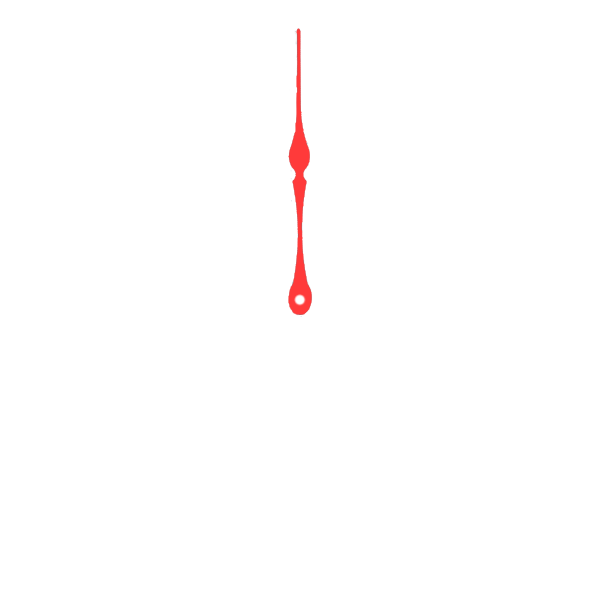
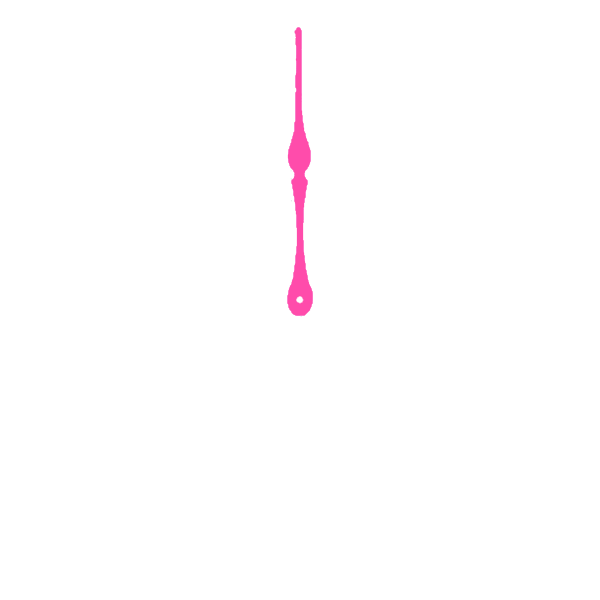
Analog Clock - added second set of hands

Changed region(s): [[0.48, 0.03, 0.54, 0.54]]

diff --git a/Clock/WpfAnalogClock/WpfAnalogClock/Constrols/AnalogClock.xaml b/Clock/WpfAnalogClock/WpfAnalogClock/Constrols/AnalogClock.xaml
@@ -10,10 +10,10 @@
              d:DesignHeight="300" d:DesignWidth="300">
     <Grid x:Name="clockGrid">
         <Grid.Background>
-            <ImageBrush ImageSource="/Images/StoneRoundClock1.png" Stretch="Uniform"/>
+            <ImageBrush ImageSource="pack://application:,,,/Images/StoneRoundClock2.png" Stretch="Uniform"/>
         </Grid.Background>
         <Image Grid.Row="0" Grid.Column="0" 
-               Source="/Images/HourHand1.png" 
+               Source="pack://application:,,,/Images/HourHand2.png" 
                Width="{Binding Path=ActualWidth, ElementName=clockGrid, Converter={main:PercentageConverter}, ConverterParameter='0.8'}"
                Height="{Binding Path=ActualHeight, ElementName=clockGrid, Converter={main:PercentageConverter}, ConverterParameter='0.8'}"
                HorizontalAlignment="Center" VerticalAlignment="Center" Stretch="Fill">
@@ -25,7 +25,7 @@
             </Image.LayoutTransform>
         </Image>
         <Image Grid.Row="0" Grid.Column="0" 
-               Source="/Images/MinuteHand1.png" 
+               Source="pack://application:,,,/Images/MinuteHand2.png" 
                Width="{Binding Path=ActualWidth, ElementName=clockGrid, Converter={main:PercentageConverter}, ConverterParameter='0.8'}"
                Height="{Binding Path=ActualHeight, ElementName=clockGrid, Converter={main:PercentageConverter}, ConverterParameter='0.8'}"
                HorizontalAlignment="Center" VerticalAlignment="Center" Stretch="Fill">
@@ -37,21 +37,21 @@
             </Image.LayoutTransform>
         </Image>
         <Image Grid.Row="0" Grid.Column="0" 
-               Source="/Images/SecondHand1.png" 
+               Source="pack://application:,,,/Images/SecondHand2.png" 
                Width="{Binding Path=ActualWidth, ElementName=clockGrid, Converter={main:PercentageConverter}, ConverterParameter='0.6'}"
                Height="{Binding Path=ActualHeight, ElementName=clockGrid, Converter={main:PercentageConverter}, ConverterParameter='0.8'}"
                HorizontalAlignment="Center" VerticalAlignment="Center" Stretch="Fill">
             <Image.LayoutTransform>
                 <TransformGroup>
                     <ScaleTransform/>
-                    <RotateTransform x:Name="rotateSecond" Angle="0" />
+                    <RotateTransform x:Name="rotateSecond" Angle="-25" />
                 </TransformGroup>
             </Image.LayoutTransform>
         </Image>
         <TextBlock Grid.Row="0" Grid.Column="0" x:Name="txtTime"
-                   FontWeight="Bold" Foreground="Red"
+                   FontWeight="Bold" Foreground="HotPink"  
                    FontSize="{Binding Path=ActualWidth, ElementName=clockGrid, Converter={main:PercentageConverter}, ConverterParameter='0.08'}"
-                   Text="12:22:01"
+                   Text="(::)=)(="
                    VerticalAlignment="Bottom" HorizontalAlignment="Left"/>
     </Grid>
 </UserControl>

diff --git a/Clock/WpfAnalogClock/WpfAnalogClock/MainWindow.xaml b/Clock/WpfAnalogClock/WpfAnalogClock/MainWindow.xaml
@@ -12,5 +12,9 @@
         Title="Clock" Height="350" Width="350"> 
     <Grid Background="Transparent" MouseDown="ClockGrid_OnMouseDown">
         <Constrols:AnalogClock HorizontalAlignment="Stretch" VerticalAlignment="Stretch"/>
+        <Button Content="X" 
+                VerticalAlignment="Top" HorizontalAlignment="Right" 
+                Width="32" Height="32" FontSize="20"
+                Background="HotPink" Click="Button_Click"/>
     </Grid>
 </Window>

diff --git a/Clock/WpfAnalogClock/WpfAnalogClock/MainWindow.xaml.cs b/Clock/WpfAnalogClock/WpfAnalogClock/MainWindow.xaml.cs
@@ -41,5 +41,10 @@ namespace WpfAnalogClock
             this.Width += e.Delta;
             this.Height += e.Delta;
         }
+
+        private void Button_Click(object sender, RoutedEventArgs e)
+        {
+            Close();
+        }
     }
 }
